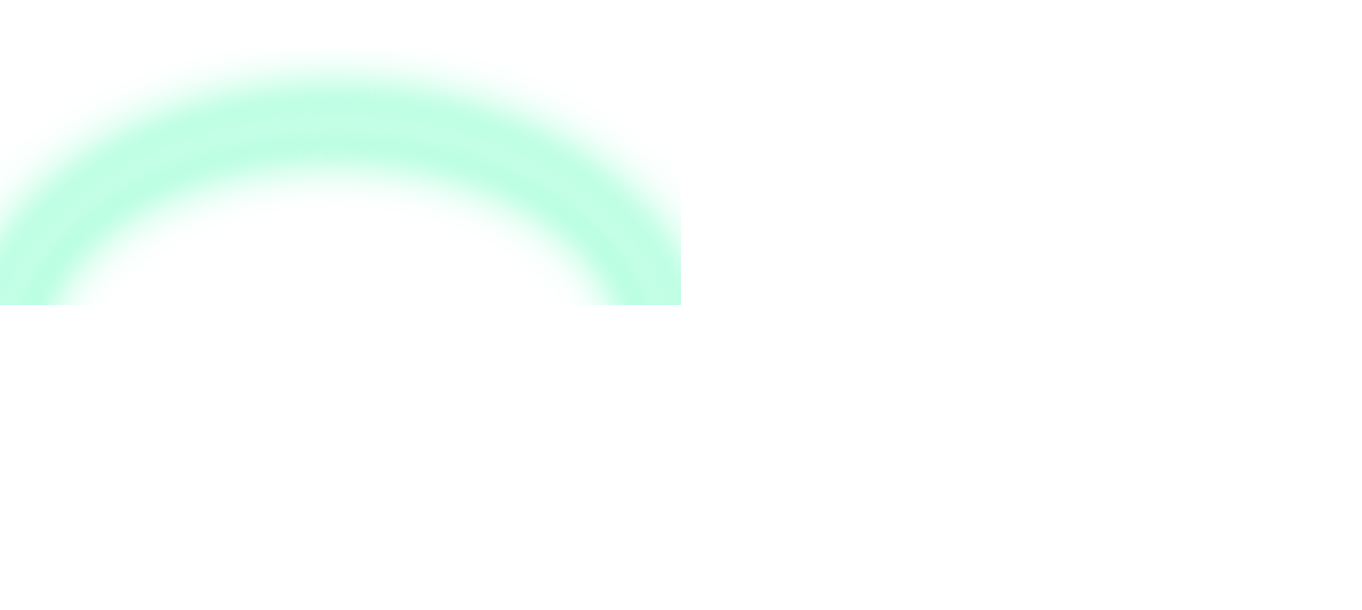
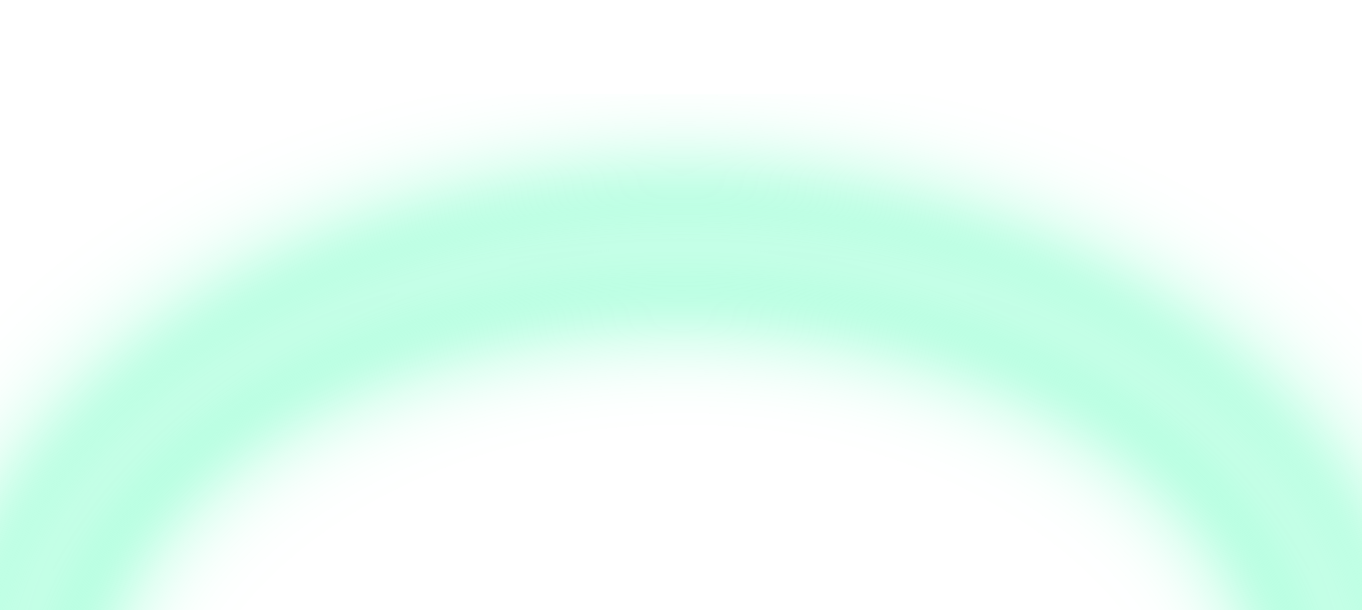
fix: navpill centering, morph visibility, hourglass flip, clearscreen center
- CustomNavBar pill now stays vertically centered during squeeze by
  compensating top with half the height delta.
- GroupSelector morph animation is more visible: 340ms with ease-out cubic,
  translateX slide-in/out, stronger scale delta, and pointerEvents moved
  into the animated style.
- Hourglass on submit now does a flip-pause-flip pattern via reanimated
  withRepeat+withSequence instead of a single linear spin.
- clearscreen.svg ellipse cx fixed from 334.5 to 340.5 so the sweep glow
  aligns with the canvas center; PNG re-exported at 1362x610.

diff --git a/src/components/GroupSelector.tsx b/src/components/GroupSelector.tsx
@@ -17,8 +17,12 @@ import ReAnimated, {
   useSharedValue,
   useAnimatedStyle,
   withTiming,
+  withRepeat,
+  withSequence,
+  cancelAnimation,
   interpolate,
   Extrapolation,
+  Easing as ReEasing,
 } from 'react-native-reanimated';
 import { Image } from 'expo-image';
 import { Ionicons } from '@expo/vector-icons';
@@ -81,7 +85,7 @@ export default function GroupSelector({
   const [joinCode, setJoinCode] = useState('');
   const [submitting, setSubmitting] = useState(false);
   const inputRef = useRef<TextInput>(null);
-  const spinAnim = useRef(new Animated.Value(0)).current;
+  const hourglassRotation = useSharedValue(0);
   const [keyboardHeight, setKeyboardHeight] = useState(0);
   const scrollRef = useRef<ScrollView>(null);
   const actionRowRef = useRef<View>(null);
@@ -94,34 +98,55 @@ export default function GroupSelector({
   const createProgress = useSharedValue(0); // 0→1 when mode = 'create'
   const joinProgress = useSharedValue(0);   // 0→1 when mode = 'join'
 
-  const MORPH_DURATION = 220;
+  const MORPH_DURATION = 340;
+  const MORPH_EASING = ReEasing.out(ReEasing.cubic);
 
   // Pills layer: visible when morphProgress = 0, hidden when morphProgress = 1
+  // Slides ~32px to the left while fading + scaling down
   const pillsStyle = useAnimatedStyle(() => {
     const opacity = interpolate(morphProgress.value, [0, 1], [1, 0], Extrapolation.CLAMP);
-    const scale = interpolate(morphProgress.value, [0, 1], [1, 0.85], Extrapolation.CLAMP);
-    return { opacity, transform: [{ scale }] };
+    const scale = interpolate(morphProgress.value, [0, 1], [1, 0.8], Extrapolation.CLAMP);
+    const translateX = interpolate(morphProgress.value, [0, 1], [0, -32], Extrapolation.CLAMP);
+    return {
+      opacity,
+      transform: [{ translateX }, { scale }],
+      pointerEvents: morphProgress.value > 0.5 ? 'none' : 'auto',
+    };
   });
 
   // Input layer: visible when morphProgress = 1, hidden when morphProgress = 0
+  // Slides in from ~32px to the right while fading + scaling up
   const inputLayerStyle = useAnimatedStyle(() => {
     const opacity = interpolate(morphProgress.value, [0, 1], [0, 1], Extrapolation.CLAMP);
-    const scale = interpolate(morphProgress.value, [0, 1], [0.85, 1], Extrapolation.CLAMP);
-    return { opacity, transform: [{ scale }] };
+    const scale = interpolate(morphProgress.value, [0, 1], [0.9, 1], Extrapolation.CLAMP);
+    const translateX = interpolate(morphProgress.value, [0, 1], [32, 0], Extrapolation.CLAMP);
+    return {
+      opacity,
+      transform: [{ translateX }, { scale }],
+      pointerEvents: morphProgress.value > 0.5 ? 'auto' : 'none',
+    };
   });
 
   // Create circle button
   const createCircleStyle = useAnimatedStyle(() => {
     const opacity = interpolate(createProgress.value, [0, 1], [0, 1], Extrapolation.CLAMP);
-    const scale = interpolate(createProgress.value, [0, 1], [0.7, 1], Extrapolation.CLAMP);
-    return { opacity, transform: [{ scale }] };
+    const scale = interpolate(createProgress.value, [0, 1], [0.6, 1], Extrapolation.CLAMP);
+    return {
+      opacity,
+      transform: [{ scale }],
+      pointerEvents: createProgress.value > 0.5 ? 'auto' : 'none',
+    };
   });
 
   // Join circle button
   const joinCircleStyle = useAnimatedStyle(() => {
     const opacity = interpolate(joinProgress.value, [0, 1], [0, 1], Extrapolation.CLAMP);
-    const scale = interpolate(joinProgress.value, [0, 1], [0.7, 1], Extrapolation.CLAMP);
-    return { opacity, transform: [{ scale }] };
+    const scale = interpolate(joinProgress.value, [0, 1], [0.6, 1], Extrapolation.CLAMP);
+    return {
+      opacity,
+      transform: [{ scale }],
+      pointerEvents: joinProgress.value > 0.5 ? 'auto' : 'none',
+    };
   });
 
   // Auto-scroll to input when keyboard opens
@@ -155,7 +180,29 @@ export default function GroupSelector({
     };
   }, []);
 
-  const spin = spinAnim.interpolate({ inputRange: [0, 1], outputRange: ['0deg', '-360deg'] });
+  // Hourglass flip animation — rotates 180° in bursts with pauses, while submitting
+  const hourglassStyle = useAnimatedStyle(() => ({
+    transform: [{ rotate: `${hourglassRotation.value}deg` }],
+  }));
+
+  useEffect(() => {
+    if (submitting) {
+      hourglassRotation.value = 0;
+      hourglassRotation.value = withRepeat(
+        withSequence(
+          withTiming(180, { duration: 150, easing: ReEasing.out(ReEasing.cubic) }),
+          withTiming(180, { duration: 350 }),
+          withTiming(360, { duration: 150, easing: ReEasing.out(ReEasing.cubic) }),
+          withTiming(360, { duration: 350 }),
+        ),
+        -1,
+        false,
+      );
+    } else {
+      cancelAnimation(hourglassRotation);
+      hourglassRotation.value = withTiming(0, { duration: 200 });
+    }
+  }, [submitting]);
 
   // Open overlay
   useEffect(() => {
@@ -178,21 +225,22 @@ export default function GroupSelector({
   const switchInlineMode = useCallback((mode: 'none' | 'create' | 'join') => {
     setInlineMode(mode);
 
+    const timingCfg = { duration: MORPH_DURATION, easing: MORPH_EASING };
     if (mode === 'create') {
-      morphProgress.value = withTiming(1, { duration: MORPH_DURATION });
-      createProgress.value = withTiming(1, { duration: MORPH_DURATION });
-      joinProgress.value = withTiming(0, { duration: MORPH_DURATION });
-      setTimeout(() => inputRef.current?.focus(), 100);
+      morphProgress.value = withTiming(1, timingCfg);
+      createProgress.value = withTiming(1, timingCfg);
+      joinProgress.value = withTiming(0, timingCfg);
+      setTimeout(() => inputRef.current?.focus(), 180);
     } else if (mode === 'join') {
-      morphProgress.value = withTiming(1, { duration: MORPH_DURATION });
-      createProgress.value = withTiming(0, { duration: MORPH_DURATION });
-      joinProgress.value = withTiming(1, { duration: MORPH_DURATION });
-      setTimeout(() => inputRef.current?.focus(), 100);
+      morphProgress.value = withTiming(1, timingCfg);
+      createProgress.value = withTiming(0, timingCfg);
+      joinProgress.value = withTiming(1, timingCfg);
+      setTimeout(() => inputRef.current?.focus(), 180);
     } else {
       // Dismiss back to pills
-      morphProgress.value = withTiming(0, { duration: MORPH_DURATION });
-      createProgress.value = withTiming(0, { duration: MORPH_DURATION });
-      joinProgress.value = withTiming(0, { duration: MORPH_DURATION });
+      morphProgress.value = withTiming(0, timingCfg);
+      createProgress.value = withTiming(0, timingCfg);
+      joinProgress.value = withTiming(0, timingCfg);
       setNewName('');
       setJoinCode('');
     }
@@ -219,12 +267,9 @@ export default function GroupSelector({
 
   const handleCreate = async () => {
     if (!newName.trim()) return;
-    spinAnim.setValue(0);
-    Animated.timing(spinAnim, { toValue: 1, duration: 400, easing: Easing.out(Easing.cubic), useNativeDriver: true }).start();
     setSubmitting(true);
     const result = await onCreate(newName.trim());
     setSubmitting(false);
-    spinAnim.setValue(0);
     if (result && 'error' in result && result.error) { Alert.alert('Fout', result.error as string); return; }
     setNewName('');
     setInlineMode('none');
@@ -237,12 +282,9 @@ export default function GroupSelector({
 
   const handleJoin = async () => {
     if (!joinCode.trim()) return;
-    spinAnim.setValue(0);
-    Animated.timing(spinAnim, { toValue: 1, duration: 400, easing: Easing.out(Easing.cubic), useNativeDriver: true }).start();
     setSubmitting(true);
     const result = await onJoin(joinCode.trim());
     setSubmitting(false);
-    spinAnim.setValue(0);
     if (result.error) { Alert.alert('Fout', result.error); return; }
     setJoinCode('');
     setInlineMode('none');
@@ -343,8 +385,8 @@ export default function GroupSelector({
               */}
               <View ref={actionRowRef} style={st.actionRow}>
 
-                {/* Layer 1: Pills — always mounted, fades out on morph */}
-                <ReAnimated.View style={[st.pillsLayer, pillsStyle]} pointerEvents={isActive ? 'none' : 'auto'}>
+                {/* Layer 1: Pills — always mounted, fades out on morph (pointerEvents via animated style) */}
+                <ReAnimated.View style={[st.pillsLayer, pillsStyle]}>
                   <Pressable
                     style={[st.actionBtn, { backgroundColor: t.brand.magenta }]}
                     onPress={() => switchInlineMode('create')}
@@ -359,8 +401,8 @@ export default function GroupSelector({
                   </Pressable>
                 </ReAnimated.View>
 
-                {/* Layer 2: Input field — absolute, fades in on morph */}
-                <ReAnimated.View style={[st.inputLayer, inputLayerStyle]} pointerEvents={isActive ? 'auto' : 'none'}>
+                {/* Layer 2: Input field — absolute, fades in on morph (pointerEvents via animated style) */}
+                <ReAnimated.View style={[st.inputLayer, inputLayerStyle]}>
                   <View style={st.inlineInputWrap}>
                     <TextInput
                       ref={inputRef}
@@ -380,28 +422,28 @@ export default function GroupSelector({
                 </ReAnimated.View>
 
                 {/* Layer 3: Create circle button — absolute right, fades in when mode=create */}
-                <ReAnimated.View style={[st.circleLayer, createCircleStyle]} pointerEvents={isCreate ? 'auto' : 'none'}>
+                <ReAnimated.View style={[st.circleLayer, createCircleStyle]}>
                   <Pressable
                     style={[st.circleBtn, { backgroundColor: t.brand.magenta }]}
                     onPress={handleCreate}
                     disabled={submitting && isCreate}
                   >
-                    <Animated.View style={{ transform: [{ rotate: spin }] }}>
+                    <ReAnimated.View style={hourglassStyle}>
                       <Ionicons name={submitting ? 'hourglass' : 'arrow-forward'} size={22} color="#FFFFFF" />
-                    </Animated.View>
+                    </ReAnimated.View>
                   </Pressable>
                 </ReAnimated.View>
 
                 {/* Layer 4: Join circle button — absolute right, fades in when mode=join */}
-                <ReAnimated.View style={[st.circleLayer, joinCircleStyle]} pointerEvents={isJoin ? 'auto' : 'none'}>
+                <ReAnimated.View style={[st.circleLayer, joinCircleStyle]}>
                   <Pressable
                     style={[st.circleBtn, { backgroundColor: t.brand.cyan }]}
                     onPress={handleJoin}
                     disabled={submitting && isJoin}
                   >
-                    <Animated.View style={{ transform: [{ rotate: spin }] }}>
+                    <ReAnimated.View style={hourglassStyle}>
                       <Ionicons name={submitting ? 'hourglass' : 'arrow-forward'} size={22} color="#1A1A2E" />
-                    </Animated.View>
+                    </ReAnimated.View>
                   </Pressable>
                 </ReAnimated.View>
 

diff --git a/src/components/CustomNavBar.tsx b/src/components/CustomNavBar.tsx
@@ -79,6 +79,7 @@ export default function CustomNavBar({ state, navigation }: any) {
     left: leftEdge.value,
     width: rightEdge.value - leftEdge.value,
     height: pillHeight.value,
+    top: 14 + (PILL_H - pillHeight.value) / 2,
     borderRadius: 44,
   }));
 
@@ -171,7 +172,6 @@ const styles = StyleSheet.create({
   },
   pill: {
     position: 'absolute',
-    top: 14,
     backgroundColor: '#FF0085',
     shadowColor: '#FF0085',
     shadowOffset: { width: 0, height: 0 },
